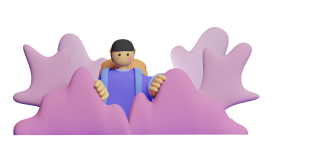
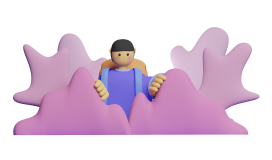
feat: design market screen

Changed region(s): [[0.0294, 0.1562, 0.9706, 0.8438], [0.0588, 0.2812, 0.1471, 0.5625]]

diff --git a/src/components/MarketCoin.tsx b/src/components/MarketCoin.tsx
@@ -1,0 +1,67 @@
+import React from 'react'
+import { StyleSheet, Image, Text, View } from 'react-native'
+
+interface IMarketCoinProps {
+  image: string
+  name: string
+  symbol: string
+  valueUSD: number,
+  valueChange1H: number
+}
+
+const MarketCoin = ({ image, name, symbol, valueChange1H, valueUSD }: IMarketCoinProps) => (
+  <View style={styles.container}>
+    <Image style={styles.image} source={{ uri: image }} />
+    <View style={styles.nameContainer}>
+      <Text style={styles.name}>{name}</Text>
+      <Text style={styles.symbol}>{symbol}</Text>
+    </View>
+    <View style={styles.valueContainer}>
+      <Text style={styles.valueUSD}>${valueUSD}</Text>
+      <Text style={{ color: valueChange1H > 0 ? '#398F0A' : '#F10000' }}>
+        {valueChange1H > 0 && '+'}{valueChange1H}
+      </Text>
+    </View>
+  </View>
+)
+
+export default MarketCoin
+
+const styles = StyleSheet.create({
+  container: {
+    flexDirection: 'row',
+    alignItems: 'center',
+    width: '100%',
+    marginVertical: 5,
+    padding: 6,
+    height: 55,
+    backgroundColor: '#26242D',
+  },
+  image: {
+    width: 45,
+    height: 45,
+  },
+  nameContainer: {
+    flex: 1,
+    marginLeft: 10,
+    justifyContent: 'space-evenly',
+    height: '100%',
+  },
+  name: {
+    color: 'white',
+    fontWeight: 'bold',
+  },
+  symbol: {
+    color: '#777777',
+  },
+  valueContainer: {
+    justifyContent: 'space-evenly',
+    height: '100%',
+    alignItems: 'flex-end',
+  },
+  valueUSD: {
+    color: 'white',
+    fontSize: 16,
+    fontWeight: '600',
+  },
+})

diff --git a/src/screens/Market/index.tsx b/src/screens/Market/index.tsx
@@ -1,14 +1,41 @@
 import React from 'react'
-import { StyleSheet, Text, View } from 'react-native'
+import { Image, Text, View } from 'react-native'
+import { FlatList } from 'react-native-gesture-handler'
+import MarketCoin from '../../components/MarketCoin'
+import styles from './styles'
+const image = require('../../../assets/images/Saly-17.png')
+
+const COINS = [
+  { id: 1, name: 'Virtual USD', image: '', symbol: 'VUSD', valueChange1H: -1.232, valueUSD: 1000 },
+  { id: 2, name: 'Bitcoin', image: '', symbol: 'BTC', valueChange1H: 1.56, valueUSD: 65464 },
+]
 
 const MarketScreen = () => {
   return (
-    <View style={{ flex: 1, justifyContent: 'center', alignItems: 'center' }}>
-      <Text>Market</Text>
+    <View style={styles.container}>
+      <FlatList
+        data={COINS}
+        renderItem={({ item }) => (
+          <MarketCoin
+            name={item.name}
+            image={item.image}
+            symbol={item.symbol}
+            valueUSD={item.valueUSD}
+            valueChange1H={item.valueChange1H}
+          />
+        )}
+        style={{ width: '100%' }}
+        ListHeaderComponentStyle={{ alignItems: 'center' }}
+        ListHeaderComponent={() => (
+          <>
+            <Image style={styles.image} source={image} />
+            <Text style={styles.market}>Market</Text>
+          </>
+        )}
+        showsVerticalScrollIndicator={false}
+      />
     </View>
   )
 }
 
 export default MarketScreen
-
-const styles = StyleSheet.create({})

diff --git a/src/screens/Market/styles.ts b/src/screens/Market/styles.ts
@@ -1,0 +1,21 @@
+import { StyleSheet } from 'react-native'
+
+const styles = StyleSheet.create({
+  container: {
+    flex: 1,
+    alignItems: 'center',
+    padding: 20,
+  },
+  image: {
+    height: 150,
+    resizeMode: 'contain',
+  },
+  market: {
+    fontWeight: 'bold',
+    color: 'white',
+    fontSize: 24,
+    marginBottom: 16
+  },
+})
+
+export default styles
